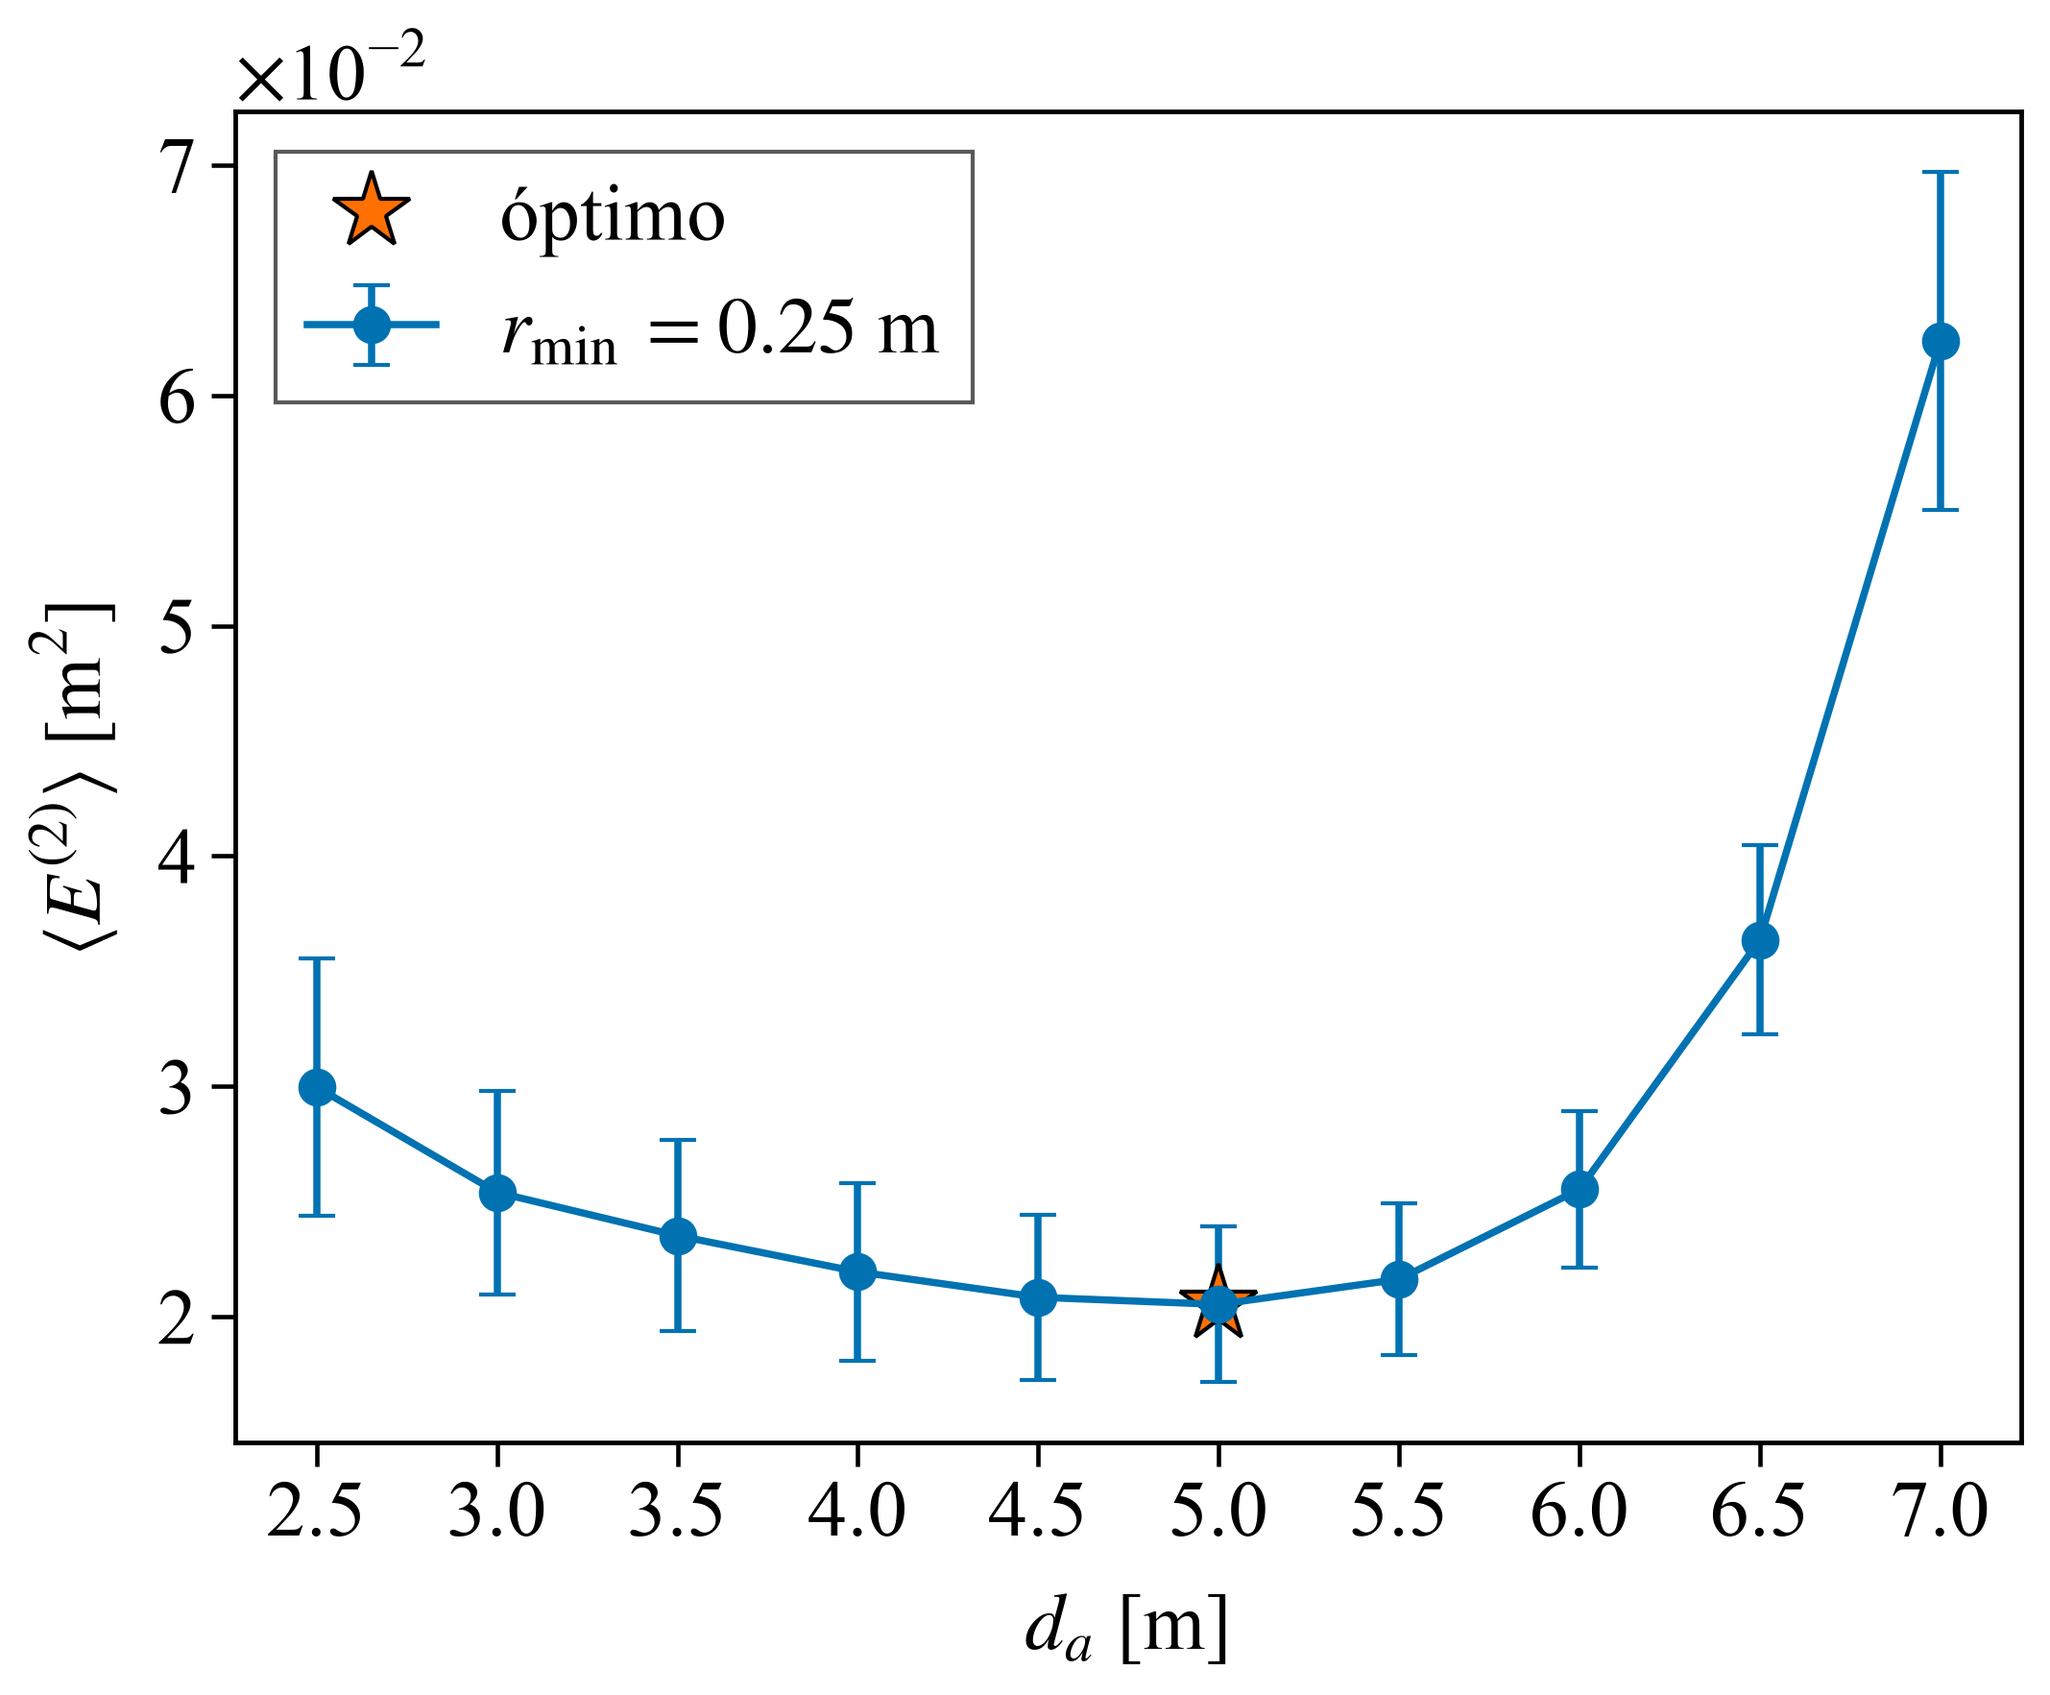
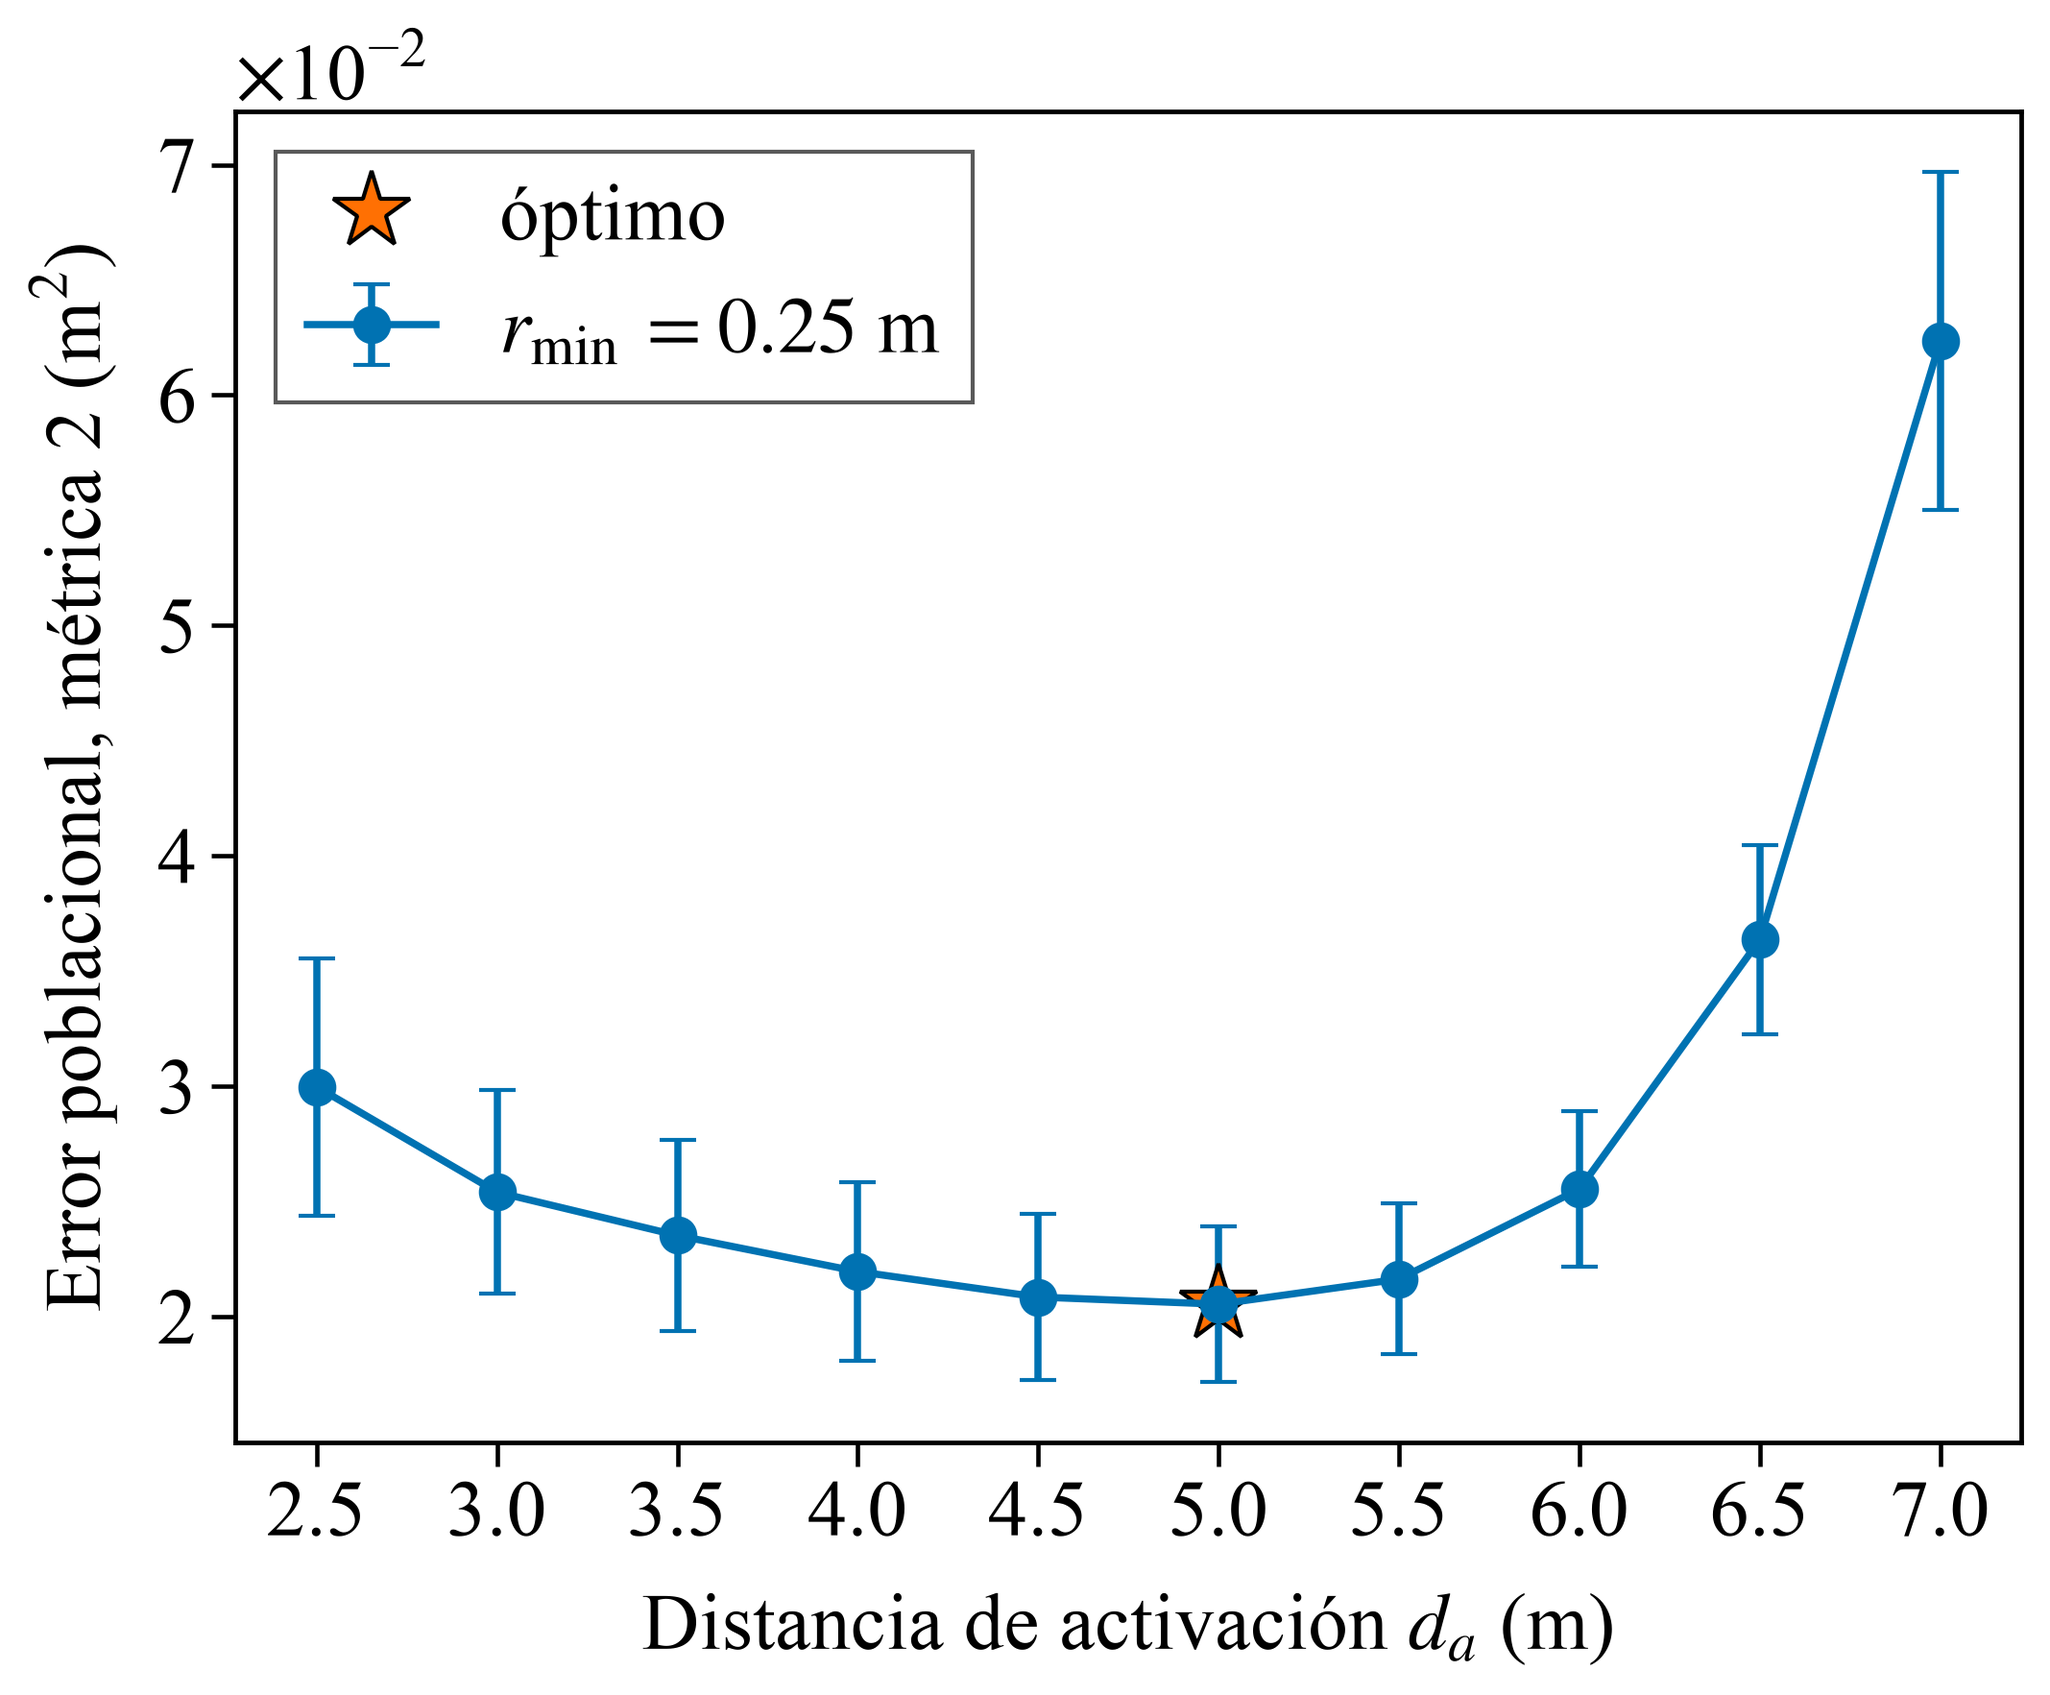
resultados

diff --git a/docs/presentation/secciones/resultados.tex b/docs/presentation/secciones/resultados.tex
@@ -1,0 +1,153 @@
+\begin{frame}{Resultados}
+  \framesubtitle{Animaciones: experimento y simulación}
+  \begin{columns}[T]
+    \begin{column}{0.49\textwidth}
+      \centering{\small Evento 15 (menor $E^{(2)}_m$)}\par\smallskip
+      \includegraphics[width=\linewidth,height=0.52\textheight,keepaspectratio]{anim_a.png}
+      \par\smallskip{\scriptsize\url{https://youtu.be/PENDIENTE}}
+    \end{column}
+    \begin{column}{0.49\textwidth}
+      \centering{\small Evento 11 (mayor $E^{(2)}_m$)}\par\smallskip
+      \includegraphics[width=\linewidth,height=0.52\textheight,keepaspectratio]{anim_b.png}
+      \par\smallskip{\scriptsize\url{https://youtu.be/PENDIENTE}}
+    \end{column}
+  \end{columns}
+  \vspace{6pt}
+  \centering{\small $r_{min} = 0.25\uni{m}$, \quad $d_a = 5\uni{m}$}
+\end{frame}
+
+\begin{frame}{Resultados}
+  \framesubtitle{Trayectorias: experimento y simulación}
+  \centering
+  {\small Evento 15}\par
+  \includegraphics[width=\linewidth,height=0.36\textheight,keepaspectratio]{tray_a.png}\par
+  \vspace{2pt}
+  {\small Evento 11}\par
+  \includegraphics[width=\linewidth,height=0.36\textheight,keepaspectratio]{tray_b.png}
+\end{frame}
+
+\begin{frame}{Resultados}
+  \framesubtitle{Calibración poblacional: métrica 1}
+  \begin{cols}
+    \begin{column}{0.62\textwidth}
+      \figura{E1_superficie.png}
+    \end{column}
+    \begin{column}{0.34\textwidth}
+      \begin{resultado}[Óptimo]
+        \item $r_{min} = 0.20\uni{m}$
+        \item $d_a = 4\uni{m}$
+        \item $\langle E^{(1)}\rangle = 0.384 \pm 0.061\uni{m^2}$
+      \end{resultado}
+    \end{column}
+  \end{cols}
+\end{frame}
+
+\begin{frame}{Resultados}
+  \framesubtitle{Calibración poblacional: métrica 1, cortes por el óptimo}
+  \begin{columns}[T]
+    \begin{column}{0.49\textwidth}
+      \centering
+      \includegraphics[width=\linewidth,height=0.66\textheight,keepaspectratio]{E1_corte_rmin.png}
+    \end{column}
+    \begin{column}{0.49\textwidth}
+      \centering
+      \includegraphics[width=\linewidth,height=0.66\textheight,keepaspectratio]{E1_corte_action_distance.png}
+    \end{column}
+  \end{columns}
+\end{frame}
+
+\begin{frame}{Resultados}
+  \framesubtitle{Calibración poblacional: métrica 2}
+  \begin{cols}
+    \begin{column}{0.62\textwidth}
+      \figura{E2_superficie.png}
+    \end{column}
+    \begin{column}{0.34\textwidth}
+      \begin{resultado}[Óptimo]
+        \item $r_{min} = 0.25\uni{m}$
+        \item $d_a = 5\uni{m}$
+        \item $\langle E^{(2)}\rangle = (2.05 \pm 0.34)\ten{-2}\uni{m^2}$
+      \end{resultado}
+    \end{column}
+  \end{cols}
+\end{frame}
+
+\begin{frame}{Resultados}
+  \framesubtitle{Calibración poblacional: métrica 2, cortes por el óptimo}
+  \begin{columns}[T]
+    \begin{column}{0.49\textwidth}
+      \centering
+      \includegraphics[width=\linewidth,height=0.66\textheight,keepaspectratio]{E2_corte_rmin.png}
+    \end{column}
+    \begin{column}{0.49\textwidth}
+      \centering
+      \includegraphics[width=\linewidth,height=0.66\textheight,keepaspectratio]{E2_corte_action_distance.png}
+    \end{column}
+  \end{columns}
+\end{frame}
+
+\begin{frame}{Resultados}
+  \framesubtitle{Calibración poblacional: comparación de los óptimos}
+  \centering
+  \renewcommand{\arraystretch}{1.5}
+  \begin{tabular}{lccc}
+    \hline
+    Métrica & $r_{min}$ (m) & $d_a$ (m) & $\langle E\rangle$ (m$^2$) \\
+    \hline
+    1: iguales tiempos & $0.20$ & $4$ & $0.384 \pm 0.061$ \\
+    2: punto más cercano & $0.25$ & $5$ & $(2.05 \pm 0.34)\ten{-2}$ \\
+    \hline
+  \end{tabular}
+
+  \vspace{16pt}
+  \begin{columns}
+    \begin{column}{0.62\textwidth}
+      \begin{resultado}
+        \item Óptimos a un paso de grilla entre sí
+        \item $\langle E^{(1)}\rangle \approx 19\,\langle E^{(2)}\rangle$
+        \item $\sqrt{\langle E\rangle}$: $0.62\uni{m}$ (métrica 1), $0.14\uni{m}$ (métrica 2)
+      \end{resultado}
+    \end{column}
+  \end{columns}
+\end{frame}
+
+\begin{frame}{Resultados}
+  \framesubtitle{Calibración individual: óptimos de cada evento}
+  \begin{columns}[T]
+    \begin{column}{0.49\textwidth}
+      \centering{\small Métrica 1}\par
+      \includegraphics[width=\linewidth,height=0.70\textheight,keepaspectratio]{E1_optimos_individuales.png}
+    \end{column}
+    \begin{column}{0.49\textwidth}
+      \centering{\small Métrica 2}\par
+      \includegraphics[width=\linewidth,height=0.70\textheight,keepaspectratio]{E2_optimos_individuales.png}
+    \end{column}
+  \end{columns}
+\end{frame}
+
+\begin{frame}{Resultados}
+  \framesubtitle{Calibración individual: error de cada evento}
+  \begin{columns}[T]
+    \begin{column}{0.49\textwidth}
+      \centering
+      \includegraphics[width=\linewidth,height=0.58\textheight,keepaspectratio]{E1_error_por_evento.png}
+    \end{column}
+    \begin{column}{0.49\textwidth}
+      \centering
+      \includegraphics[width=\linewidth,height=0.58\textheight,keepaspectratio]{E2_error_por_evento.png}
+    \end{column}
+  \end{columns}
+  \vspace{4pt}
+  \begin{columns}
+    \begin{column}{0.70\textwidth}
+      \begin{resultado}[Ganancia al individualizar]
+        \item Métrica 1: $0.384 \to 0.381\uni{m^2}$ \ ($0.7$\,\%)
+        \item Métrica 2: $2.05\ten{-2} \to 1.69\ten{-2}\uni{m^2}$ \ ($17.8$\,\%)
+      \end{resultado}
+    \end{column}
+  \end{columns}
+\end{frame}
+
+\begin{frame}{Resultados}
+  \framesubtitle{Validación cruzada}
+\end{frame}

diff --git a/scripts/plot_calibration.py b/scripts/plot_calibration.py
@@ -23,17 +23,19 @@ matplotlib.use("Agg")
 import matplotlib.pyplot as plt  # noqa: E402
 import numpy as np  # noqa: E402
 from matplotlib.colors import LogNorm  # noqa: E402
+from matplotlib.ticker import ScalarFormatter  # noqa: E402
 
 sys.path.insert(0, str(Path(__file__).resolve().parent / "lib"))
-from plot_style import BLUE, GREEN, RED, VERMILLION, apply_academic_style, style_axes  # noqa: E402
+from plot_style import BLUE, VERMILLION, apply_academic_style, style_axes  # noqa: E402
 
 REPO = Path(__file__).resolve().parents[1]
-XLABEL = r"$r_{\min}$ [m]"
-YLABEL = r"$d_a$ [m]"
+XLABEL = r"Separación de referencia $r_{min}$ (m)"
+YLABEL = r"Distancia de activación $d_a$ (m)"
 
 
 def elabel(metric: int, mean: bool = True) -> str:
-    return rf"$\langle E^{{({metric})}} \rangle$ [m$^2$]" if mean else rf"$E^{{({metric})}}_m$ [m$^2$]"
+    """Rótulo de eje en palabras, con la unidad entre paréntesis (guía de presentaciones, 1.8)."""
+    return f"Error poblacional, métrica {metric} (m$^2$)" if mean else f"Error del evento, métrica {metric} (m$^2$)"
 
 
 def read_table(path: Path):
@@ -81,6 +83,11 @@ def plot_population(metric: int, indir: Path, outdir: Path) -> None:
     norm = LogNorm(vmin=zmin, vmax=zmax) if zmin > 0 and zmax / zmin > 20 else None
     mesh = ax.pcolormesh(r_mins, ads, Z, shading="nearest", cmap="viridis", norm=norm)
     cbar = fig.colorbar(mesh, ax=ax, pad=0.02)
+    if norm is None:
+        formatter = ScalarFormatter(useMathText=True)
+        formatter.set_powerlimits((-2, 4))
+        cbar.formatter = formatter
+        cbar.update_ticks()
     cbar.set_label(elabel(metric), labelpad=12)
     ax.plot(r_opt, a_opt, marker="*", markersize=22, color="white", markeredgecolor="black", markeredgewidth=1.2, linestyle="none")
     ax.set_xticks(r_mins)
@@ -118,12 +125,16 @@ def plot_individual(metric: int, indir: Path, outdir: Path) -> None:
 
     # optima on the grid
     fig, ax = plt.subplots(figsize=(8, 6))
-    ax.plot(grid[:, 0], grid[:, 1], linestyle="none", marker="o", color="0.8", markersize=5, label="grilla", zorder=1)
+    ax.plot(grid[:, 0], grid[:, 1], linestyle="none", marker="o", color="0.8", markersize=5, zorder=1)
     pts, counts = np.unique(opt, axis=0, return_counts=True)
     ax.scatter(pts[:, 0], pts[:, 1], s=90 * counts, color=VERMILLION, alpha=0.75, edgecolor="black", zorder=2,
-               label="óptimos individuales")
+               label="óptimos individuales (número de eventos)")
+    # cantidad de eventos a la derecha de cada círculo, solo donde coincide más de uno
     for (x, y), c in zip(pts, counts):
-        ax.annotate(str(c), (x, y), textcoords="offset points", xytext=(0, 14), ha="center", fontsize=14)
+        if c > 1:
+            radius_pt = np.sqrt(90 * c / np.pi)
+            ax.annotate(str(c), (x, y), textcoords="offset points", xytext=(radius_pt + 5, 0), ha="left",
+                        va="center", fontsize=17, zorder=4)
     ax.plot(r_opt, a_opt, marker="*", markersize=22, color=BLUE, markeredgecolor="black", linestyle="none",
             label="óptimo poblacional", zorder=3)
     ax.set_xticks(np.unique(grid[:, 0]))
@@ -133,7 +144,7 @@ def plot_individual(metric: int, indir: Path, outdir: Path) -> None:
     ax.set_xlim(grid[:, 0].min() - pad_x, grid[:, 0].max() + pad_x)
     ax.set_ylim(grid[:, 1].min() - pad_y, grid[:, 1].max() + 1.2 * pad_y)
     style_axes(ax, XLABEL, YLABEL)
-    ax.legend(loc="upper center", bbox_to_anchor=(0.5, -0.18), ncol=3, fontsize=15, frameon=False)
+    ax.legend(loc="upper center", bbox_to_anchor=(0.5, -0.2), ncol=2, fontsize=15, frameon=False)
     save(fig, outdir / f"E{metric}_optimos_individuales.png")
 
     # per-event errors, population vs individual parameters
@@ -146,7 +157,7 @@ def plot_individual(metric: int, indir: Path, outdir: Path) -> None:
     ax.axhline(E_ind.mean(), color=VERMILLION, linestyle="--", linewidth=1.5)
     ax.set_xticks(x)
     ax.set_xticklabels([str(p) for p in pruebas], fontsize=15)
-    style_axes(ax, "evento", elabel(metric, mean=False))
+    style_axes(ax, "Evento", elabel(metric, mean=False))
     ax.legend(fontsize=15)
     save(fig, outdir / f"E{metric}_error_por_evento.png")
 
@@ -162,13 +173,13 @@ def plot_crossval(metric: int, indir: Path, outdir: Path) -> None:
 
     fig, ax = plt.subplots(figsize=(9, 6))
     ax.axhspan(val_mean - val_sd, val_mean + val_sd, color=VERMILLION, alpha=0.15, linewidth=0)
-    ax.axhline(val_mean, color=VERMILLION, linestyle="--", linewidth=1.5, label=r"$\langle E \rangle$ validación")
-    ax.axhline(E_pop, color="black", linestyle=":", linewidth=1.8, label=r"$\langle E \rangle$ poblacional (b)")
+    ax.axhline(val_mean, color=VERMILLION, linestyle="--", linewidth=1.5, label="media de validación")
+    ax.axhline(E_pop, color="black", linestyle=":", linewidth=1.8, label="error poblacional")
     ax.plot(k, E_va, linestyle="none", marker="o", color=VERMILLION, label="validación")
     ax.plot(k, E_tr, linestyle="none", marker="s", color=BLUE, markersize=6.5, label="entrenamiento")
     ax.set_xticks(k[:: max(1, len(k) // 10)])
-    style_axes(ax, "partición", elabel(metric))
-    ax.legend(fontsize=14, ncol=2)
+    style_axes(ax, "Partición", elabel(metric))
+    ax.legend(loc="upper center", bbox_to_anchor=(0.5, -0.2), fontsize=15, ncol=2, frameon=False)
     save(fig, outdir / f"E{metric}_validacion_cruzada.png")
 
 

diff --git a/scripts/lib/anim.py b/scripts/lib/anim.py
@@ -51,6 +51,7 @@ def make_figure(
     dots: bool = False,
     linestyles: list[str] | None = None,
     caption: str | None = None,
+    show_title: bool = True,
 ):
     """pedestrians: (label, color, positions) in drawing order.
 
@@ -125,15 +126,18 @@ def make_figure(
         color=UNTRACKED,
         markeredgecolor="black",
         alpha=UNTRACKED_ALPHA,
-        label="sin registro",
+        # entrada de leyenda solo si algún peatón pierde el registro en algún cuadro
+        label="sin registro" if any(p is None for _l, _c, positions in pedestrians for p in positions) else "_nolegend_",
     )
     if dots:
         untracked.set_markersize(DOT_SIZE)
     handles, labels = ax.get_legend_handles_labels()
+    n_legend = len(labels)
     ncol = 2 if n_legend > 3 else n_legend
     fig.legend(handles, labels, loc="lower center", ncol=ncol, frameon=True, fancybox=False)
     head = caption if caption is not None else rf"prueba {trial}"
     stats = fig.text(0.5, 1.0 - 0.15 / height, _stats_line(head, 0.0), ha="center", va="top", fontsize=FONT_SIZE)
+    stats.set_visible(show_title)  # las figuras de las diapositivas no llevan título adentro
 
     # NaN breaks the trail where the tracker lost the person instead of bridging the gap.
     trail_xs = [[p[0] if p is not None else math.nan for p in positions] for _l, _c, positions in pedestrians]

diff --git a/scripts/animate_compare.py b/scripts/animate_compare.py
@@ -88,6 +88,7 @@ def main() -> None:
     parser.add_argument("--mp4", help="output MP4 (requires ffmpeg)")
     parser.add_argument("--png", help="PNG of one frame")
     parser.add_argument("--frame", type=int, default=None, help="PNG frame index (default: last; 0 = initial)")
+    parser.add_argument("--no-title", action="store_true", help="hide the 'prueba N  t = ...' line (slide figures carry no title)")
     parser.add_argument("--show", action="store_true", help="open a window")
     parser.add_argument("--fps", type=int, default=None, help="video frames per second (default: experimental frame rate rounded, ~real time)")
     args = parser.parse_args()
@@ -162,6 +163,7 @@ def main() -> None:
         dots=True,
         linestyles=["-", "-", "--", "--"],
         caption=caption,
+        show_title=not args.no_title,
     )
 
     if args.png:

diff --git a/docs/presentation/main.tex b/docs/presentation/main.tex
@@ -28,6 +28,9 @@ Instituto Tecnológico de Buenos Aires (ITBA)\\
 \section{Simulaciones}
 \input{secciones/simulaciones}
 
+\section{Resultados}
+\input{secciones/resultados}
+
 \section{Conclusiones}
 \input{secciones/conclusiones}
 
